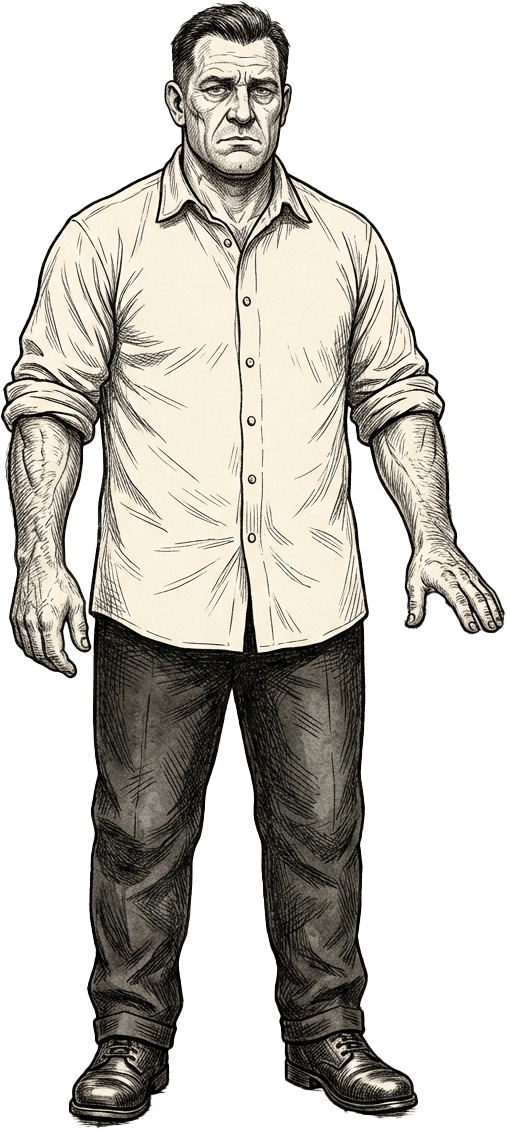
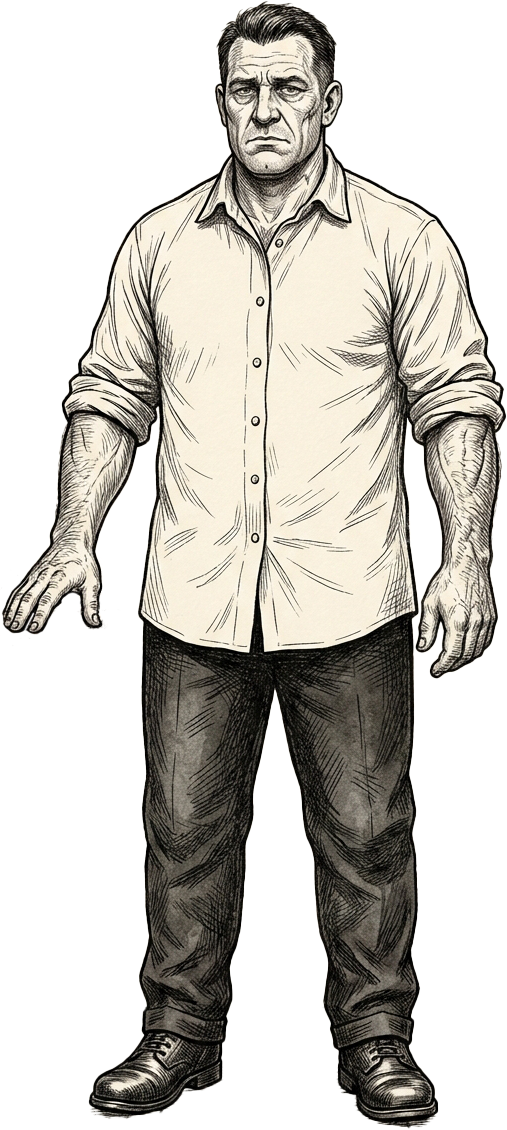
feat: Walter fades out after agreeing to lock the doors and fades back in after the detective's talk line

diff --git a/whodunit-client/src/components/sequences/DressingRoomScene/DressingRoomScene.tsx b/whodunit-client/src/components/sequences/DressingRoomScene/DressingRoomScene.tsx
@@ -13,6 +13,7 @@ export default function DressingRoomScene() {
   const [hoveredSuspect, setHoveredSuspect] = useState<string | null>(null);
   const [bodyHovered, setBodyHovered] = useState(false);
   const [agnesAway, setAgnesAway] = useState(false);
+  const [walterAway, setWalterAway] = useState(false);
   const [activeSuspectConversation, setActiveSuspectConversation] = useState<
     string | null
   >(null);
@@ -65,6 +66,7 @@ export default function DressingRoomScene() {
     clear();
 
     setTalkedTo(new Set());
+    setWalterAway(false);
     setHaroldHere(false);
 
     addLines([
@@ -200,6 +202,16 @@ export default function DressingRoomScene() {
         color: CHARACTERS.detective.color,
       },
       {
+        text: "Walter, lock all the doors. No one comes in, no one goes out.",
+        speaker: `Detective ${playerName}`,
+        color: CHARACTERS.detective.color,
+      },
+      {
+        text: "...Right away.",
+        speaker: CHARACTERS.walter.name,
+        color: CHARACTERS.walter.color,
+      },
+      {
         text: "As of now, everyone in this building is a suspect in a murder.",
         speaker: `Detective ${playerName}`,
         color: CHARACTERS.detective.color,
@@ -237,6 +249,33 @@ export default function DressingRoomScene() {
       },
     ]);
   }, [dressingStep, playerName]);
+
+  // ========================
+  // Walter leaves (to lock the doors) right after he says
+  // "...Right away." He stays away until the talk step starts.
+  // ========================
+  useEffect(() => {
+    if (dressingStep !== "lie") return;
+
+    const { history } = useTextStore.getState();
+    if (history.some((l) => l.text?.includes("Right away"))) {
+      setWalterAway(true);
+    }
+  }, [activeLine, dressingStep]);
+
+  // ========================
+  // Walter comes back once the detective's first talk line
+  // ("Until the police get here...") is finished
+  // ========================
+  useEffect(() => {
+    if (dressingStep !== "talk") return;
+    if (activeLine) return; // still talking
+
+    const { history } = useTextStore.getState();
+    if (history.some((l) => l.text?.includes("Until the police get here"))) {
+      setWalterAway(false);
+    }
+  }, [activeLine, dressingStep]);
 
   // ========================
   // Trigger: Harold comes in when everything is done.
@@ -280,7 +319,7 @@ export default function DressingRoomScene() {
 
     addLines([
       {
-        text: "The door swings open. A man stands in the doorway, out of breath, searching the room.",
+        text: "The door swings open. A man stands in the doorway, searching the room.",
         speaker: CHARACTERS.narrator.name,
       },
       {
@@ -474,7 +513,9 @@ export default function DressingRoomScene() {
           <img
             src={CHARACTERS.walter.fullBody}
             alt={CHARACTERS.walter.name}
-            className={`character ${styles.raised} ${styles.characterLeft} ${getCharacterState("walter")}`}
+            className={`character ${styles.raised} ${styles.characterLeft} ${
+              walterAway ? "fadeOut" : `fadeIn ${getCharacterState("walter")}`
+            }`}
           />
 
           <img
@@ -540,11 +581,15 @@ export default function DressingRoomScene() {
             src={CHARACTERS.walter.fullBody}
             alt={CHARACTERS.walter.name}
             className={`character ${styles.raised} ${styles.characterLeft} ${
-              activeSuspectConversation
-                ? activeSuspectConversation === "walter"
-                  ? "speaking"
-                  : "dimmed"
-                : `clickable ${styles.raised} ${hoveredSuspect === "walter" ? "hoverGlow" : ""}`
+              walterAway
+                ? "fadeOut"
+                : `fadeIn ${
+                    activeSuspectConversation
+                      ? activeSuspectConversation === "walter"
+                        ? "speaking"
+                        : "dimmed"
+                      : `clickable ${hoveredSuspect === "walter" ? "hoverGlow" : ""}`
+                  }`
             }`}
             onMouseEnter={() =>
               !activeSuspectConversation && setHoveredSuspect("walter")

diff --git a/whodunit-client/src/constants/characters.ts b/whodunit-client/src/constants/characters.ts
@@ -38,8 +38,8 @@ export const CHARACTERS = {
   harold: {
     name: "Harold",
     color: "#b5734f", // rust/brown — butcher, earthy
-    portrait: "/assets/images/characters/harold-portrait.png",
-    fullBody: "/assets/images/characters/harold-full-body.png",
+    portrait: "/assets/images/characters/husband-portrait.png",
+    fullBody: "/assets/images/characters/husband-full-body.png",
   },
   clara: {
     name: "Clara",

diff --git a/whodunit-client/src/components/game/BodyPanel/BodyPanel.tsx b/whodunit-client/src/components/game/BodyPanel/BodyPanel.tsx
@@ -34,7 +34,7 @@ const CLUE_REACTIONS: Record<
     {
       speaker: CHARACTERS.walter.name,
       color: CHARACTERS.walter.color,
-      text: "It's the key to the club! I've been looking for it! What is it doing here?",
+      text: "It's the spare key to the club! I've been looking for it! What is it doing here?",
     },
     {
       speaker: CHARACTERS.tom.name,

diff --git a/whodunit-client/src/components/sequences/DressingRoomScene/DressingRoomScene.module.scss b/whodunit-client/src/components/sequences/DressingRoomScene/DressingRoomScene.module.scss
@@ -27,5 +27,5 @@
 // Where Harold stands when he barges in.
 // Bigger number = further from the left edge.
 .characterFar {
-  left: 8%;
+  right: 8%;
 }
